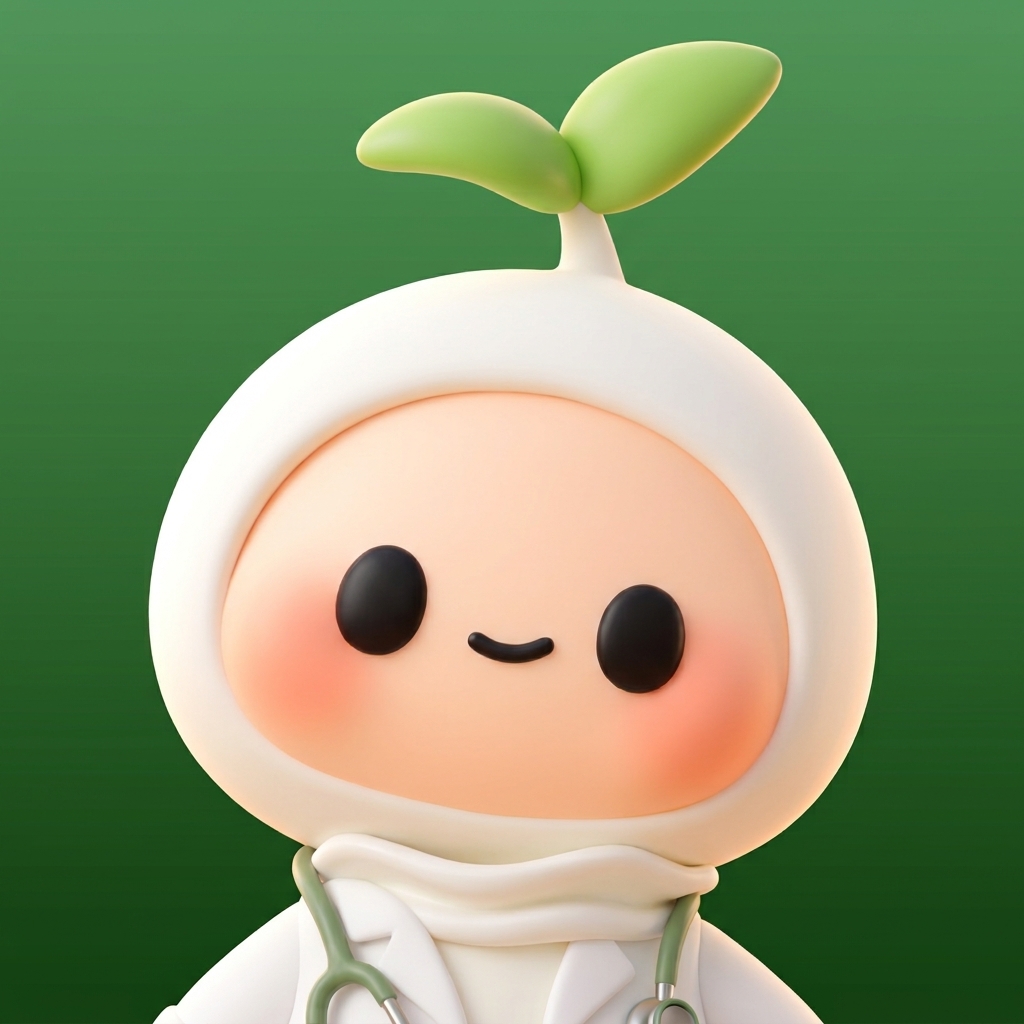
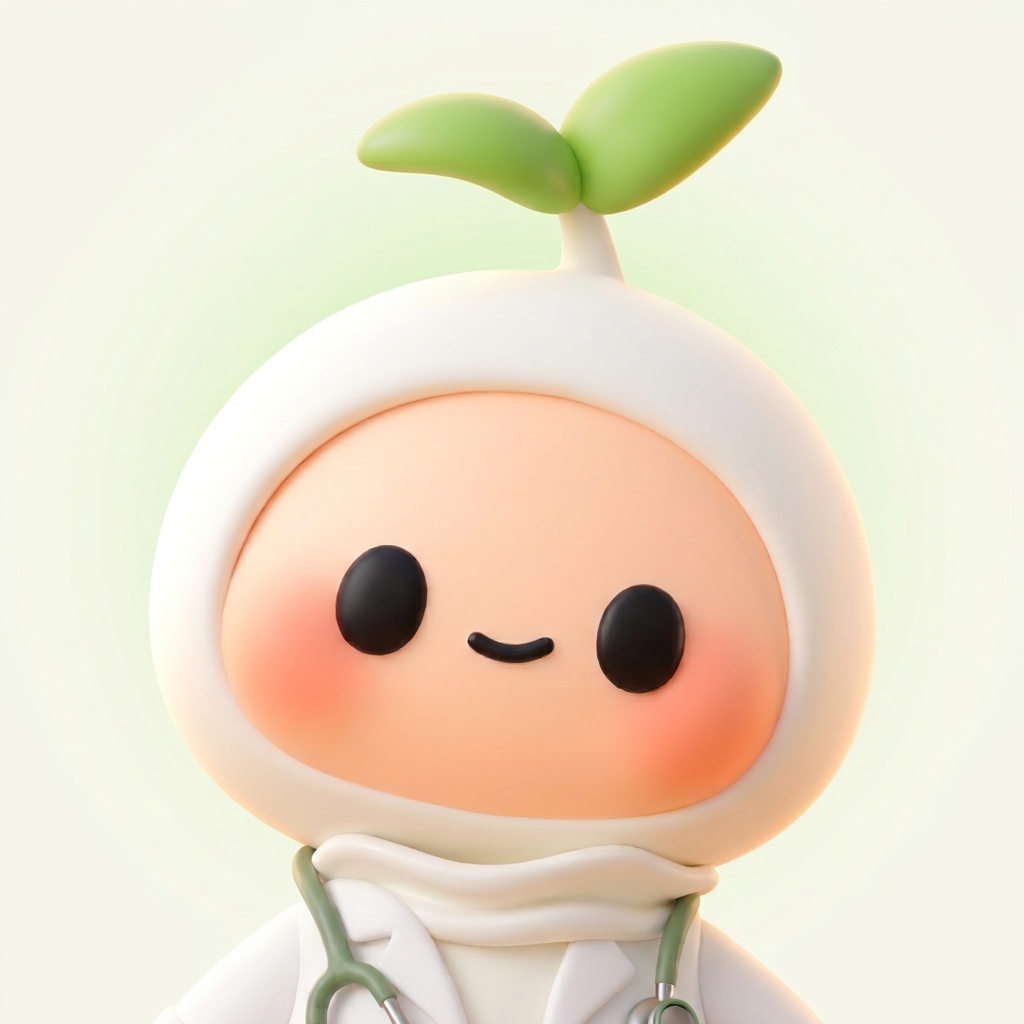
brand: cream master, and a light-surface treatment so it works on white pages
The owner chose the cream background for the 3D DiDi icon. White hood on cream has almost
no edge on a white page and nearly vanishes in a light browser tab at 16 px, so the logo
gets a treatment instead of another background: a thin deep-green rim (3 % of the side, at
least 1 px, #3E7D36) and, from 32 px up, a soft shadow. Compared against no treatment, a
thick rim, a sage rim and shadow-only on white, light grey, a light tab and #07130c, the thin
rim plus shadow was the only one that held at every size.

scripts/brand/make-tile.mjs is that treatment as code, so the brand-kit step imports it
instead of reimplementing it from a description. Its unsharp mask at <= 64 px was checked
against the unsharpened version at 5x: crisper eyes and mouth at 32 px, no halo. The green
master is kept as an alternative; provenance records the cream prompt and why mint, vivid
green and near-black were dropped.

diff --git a/.claude/workflows/landing-experience.js b/.claude/workflows/landing-experience.js
@@ -328,9 +328,10 @@ const kit = await agent(
   [
     COMMON,
     '\nYou are the brand-kit producer. The logo is DECIDED: the 3D DiDi icon. Do not redesign, redraw, re-render or "improve" it. Derive production assets from the masters and write the component. Nothing else.',
-    'Masters (read docs/brand-provenance.md first): public/brand/source/didi-icon-master.png (1024x1024, green gradient to every edge, no rounded corners) and didi-full-body.png (large brand moments only).',
+    'Masters (read docs/brand-provenance.md first): public/brand/source/didi-icon-master.png (1024x1024, CREAM background to every edge, no rounded corners; this is the logo), didi-icon-green.png (alternative, unused) and didi-full-body.png (large brand moments only).',
     `You may write ONLY: public/brand/**, scripts/brand/**, docs/brand.md, src/components/brand/**, src/app/icon.*, src/app/apple-icon.*, src/app/favicon.ico, scripts/generate-og-image.js. Do not edit the masters. Do not edit anything else under src/.`,
-    'Produce with sharp (already installed): (1) the rounded tile: the master cut with a rounded-square mask, corner radius 22.4 % of the side, in 40/64/96/128/256/512 px as AVIF + WebP + PNG fallback, lanczos3, a light sharpen at <= 64 px; (2) full-bleed squares: icon-16/32/48/180/192/512.png, maskable-512.png (the face and sprout must sit inside the central 80 % safe zone: if the master is too tight, extend the gradient background to make room rather than shrinking the character below recognisability, and say what you did); (3) src/app/apple-icon.png (180, full-bleed), src/app/icon.png (512), src/app/favicon.ico (an ICO whose entries are 16/32/48 PNGs, written with a tiny Node writer in scripts/brand/), replacing the old ones; (4) a web manifest icon list; (5) the OG image 1200x630: the master placed on the right of a dark #07130c canvas with the headline on the left in Manrope/Bricolage via the existing script scripts/generate-og-image.js (update it, run `npm run og:generate`, verify exactly 1200x630 and where the site expects it).',
+    'LIGHT-SURFACE TREATMENT (decided, see D7): cream alone vanishes on white pages and in light browser tabs. EVERY tile asset therefore carries a thin deep-green rim drawn inside the rounded edge (width 3 % of the side, at least 1 px, colour #3E7D36), and tiles shown at 32 px or larger also get a soft shadow (offset 3 % down, blur 3 % of the side, rgba(20,50,20,0.38)) on a transparent canvas padded by 12 %. No shadow at 16/24 px. LogoMark applies the same shadow with CSS drop-shadow when it renders the plain rimmed tile. Verify by rendering on #ffffff, #f1f3f5, a light browser-tab mock and #07130c, and LOOK. The geometry is ALREADY IMPLEMENTED and verified by eye in scripts/brand/make-tile.mjs (export makeTile): import and use it for every tile asset; do not reimplement or retune it (docs/brand.md just points at it).',
+    'Produce with sharp (already installed): (1) the rounded tile: the master cut with a rounded-square mask, corner radius 22.4 % of the side, then the rim and shadow above, in 40/64/96/128/256/512 px as AVIF + WebP + PNG fallback, lanczos3, a light sharpen at <= 64 px; (2) full-bleed squares (NO rim, NO shadow: the OS masks and frames them): icon-180/192/512.png, maskable-512.png; for src/favicon sizes 16/32/48 use the RIMMED rounded tile on a transparent background instead of a full-bleed square (the face and sprout must sit inside the central 80 % safe zone: if the master is too tight, extend the gradient background to make room rather than shrinking the character below recognisability, and say what you did); (3) src/app/apple-icon.png (180, full-bleed), src/app/icon.png (512), src/app/favicon.ico (an ICO whose entries are 16/32/48 PNGs, written with a tiny Node writer in scripts/brand/), replacing the old ones; (4) a web manifest icon list; (5) the OG image 1200x630: the master placed on the right of a dark #07130c canvas with the headline on the left in Manrope/Bricolage via the existing script scripts/generate-og-image.js (update it, run `npm run og:generate`, verify exactly 1200x630 and where the site expects it).',
     'Check small sizes honestly: render 16/32/48 on white and on #07130c and LOOK at them with the Read tool. If 16 px is mush, apply a stronger unsharp mask ONLY for 16 px and re-check; never alter the artwork itself.',
     'Component: src/components/brand/LogoMark.tsx (server component, <picture> with the AVIF/WebP/PNG tile, explicit width/height, alt "" when decorative or "CheckApp" when it stands alone, props size/decorative/priority) and Lockup.tsx (LogoMark + "CheckApp" in Bricolage Grotesque Bold via the existing --font-bricolage variable). No second logo anywhere.',
     'docs/brand.md: the tile and full-bleed variants, minimum sizes (16 px favicon only; 28 px in the UI), clear space, what not to do (no recolouring, no stretching, no shadow added), and a manifest table of every asset with where it is used (metadata icons, manifest icons, JSON-LD logo, OG, header, footer).',

diff --git a/docs/brand-provenance.md b/docs/brand-provenance.md
@@ -4,7 +4,8 @@
 
 | File | What | Notes |
 |---|---|---|
-| `didi-icon-master.png` | 1024 x 1024, head-and-shoulders icon, green gradient filling the square edge to edge | master for the tile logo, favicon, apple-touch icon, maskable icon, OG image |
+| `didi-icon-master.png` | 1024 x 1024, head-and-shoulders icon on a **cream** background (#F6F8F0 with a soft pale-green glow), edge to edge | the master: tile logo, favicon, apple-touch icon, maskable icon, OG image |
+| `didi-icon-green.png` | the same icon on the first deep-green gradient | kept as an alternative; not used by default |
 | `didi-full-body.png` | 1024 x 1024, full-body waving pose on flat green | for large brand moments; not for small sizes |
 
 **Made with** Google Gemini (image generation, "Create images", Nano Banana 2) on 2026-10-22, from two reference images exported from the Figma
@@ -25,6 +26,17 @@ Prompts, in order (same chat, so each builds on the previous result):
 3. "Perfect. Now the same exact icon (same pose, framing, lighting and colours) but with the green gradient background filling the whole square edge to edge: no rounded corners, no
    white corners, no border or frame. Keep the sprout fully inside the frame with a small margin, and make sure nothing appears on the face except eyes, cheeks and the smile.
    Square 1:1."  -> `didi-icon-master.png`
+
+4. Background exploration, same chat: "Same exact icon, identical character, pose, framing, size and lighting on the character, but change ONLY the background: a warm off-white cream (#F6F8F0)
+   filling the square edge to edge, with a very soft pale-green radial glow (#DCEBCB) behind the head and a subtle soft shadow under the chin so the white hood separates from the background.
+   No tile, no rounded corners, no border. Keep the sprout fully inside the frame and nothing on the face except eyes, cheeks and smile. Square 1:1."  -> `didi-icon-master.png` (the owner's choice
+   over a near-black, a mint and a vivid-green variant, which were dropped: mint disappeared on light tabs, vivid green was louder than the site's palette, near-black was kept in mind for dark contexts).
+   Gemini failed once on this prompt ("I seem to be encountering an error"); Try again worked.
+
+**Light surfaces.** White hood on cream has almost no edge on a white page, and at 16 px the tile all but vanishes in a light browser tab. The fix is a treatment, not another background:
+a thin deep-green rim and a soft shadow, applied in code to the tile (docs/brand.md has the numbers): rim 3 % of the side (at least 1 px) in #3E7D36, drawn inside the rounded edge;
+shadow offset 3 % down, blur 3 %, rgba(20,50,20,.38), only at display sizes of 32 px and up. Compared against no treatment, a thick rim, a sage rim and shadow-only on white, light grey, a light browser
+tab and #07130c, the thin rim plus shadow was the only one that held at every size.
 
 **Lessons worth keeping.** Gemini's "Download full size image" button upscales to 2048 px and that upscale *added* a stethoscope chest-piece on the cheek that the 1024 px original does not
 have. The masters are the 1024 px originals, copied with the chat's "Copy image" button. Check any future export against the on-screen image before trusting it.

diff --git a/docs/landing-decisions.md b/docs/landing-decisions.md
@@ -75,12 +75,13 @@ rerun with `paidPlans: true` and keep the visuals.
 - Contrast fixes from the Brief stand (final-CTA sub-line `#7c7c86`, "You are on the" ≥ `#d4d4d4`).
 - Tiny decorative cards (Roboto 9.7 px) ship as flattened `aria-hidden` images, not DOM.
 
-## D7. Logo: the 3D DiDi icon  (decided by the project owner)
+## D7. Logo: the 3D DiDi icon on cream  (decided by the project owner)
 
-The logo is the 3D mascot icon made with Google Gemini from the Figma mascot (docs/brand-provenance.md): a head-and-shoulders DiDi on a green tile, in the spirit of Duolingo's owl.
-It is used wherever the logo appears: header, footer, favicon, apple-touch icon, manifest icons, JSON-LD logo, OG image. An earlier flat-vector attempt was rejected.
-The brand-kit step only derives assets and a component from the masters (`@/components/brand/LogoMark`); nobody redraws it. The gate's `brand-assets` check fails the page if the icon,
-apple-touch icon or OG image (1200 x 630) is missing or does not resolve.
+The logo is the 3D mascot icon made with Google Gemini from the Figma mascot (docs/brand-provenance.md): head-and-shoulders DiDi on a cream background, in the spirit of Duolingo's owl.
+An earlier flat-vector attempt was rejected; of five backgrounds the owner chose cream. Cream alone disappears on light pages, so the tile always carries a thin deep-green rim
+(3 % of the side, at least 1 px, #3E7D36) and, from 32 px up, a soft shadow. It is used wherever the logo appears: header, footer, favicon, apple-touch icon, manifest icons, JSON-LD logo, OG image.
+The brand-kit step only derives assets and a component from the masters (`@/components/brand/LogoMark`); nobody redraws or recolours it. The gate's `brand-assets` check fails the page if the
+icon, apple-touch icon or OG image (1200 x 630) is missing or does not resolve.
 
 ## D8. Existing code is not a constraint  (decided by the project owner)
 
